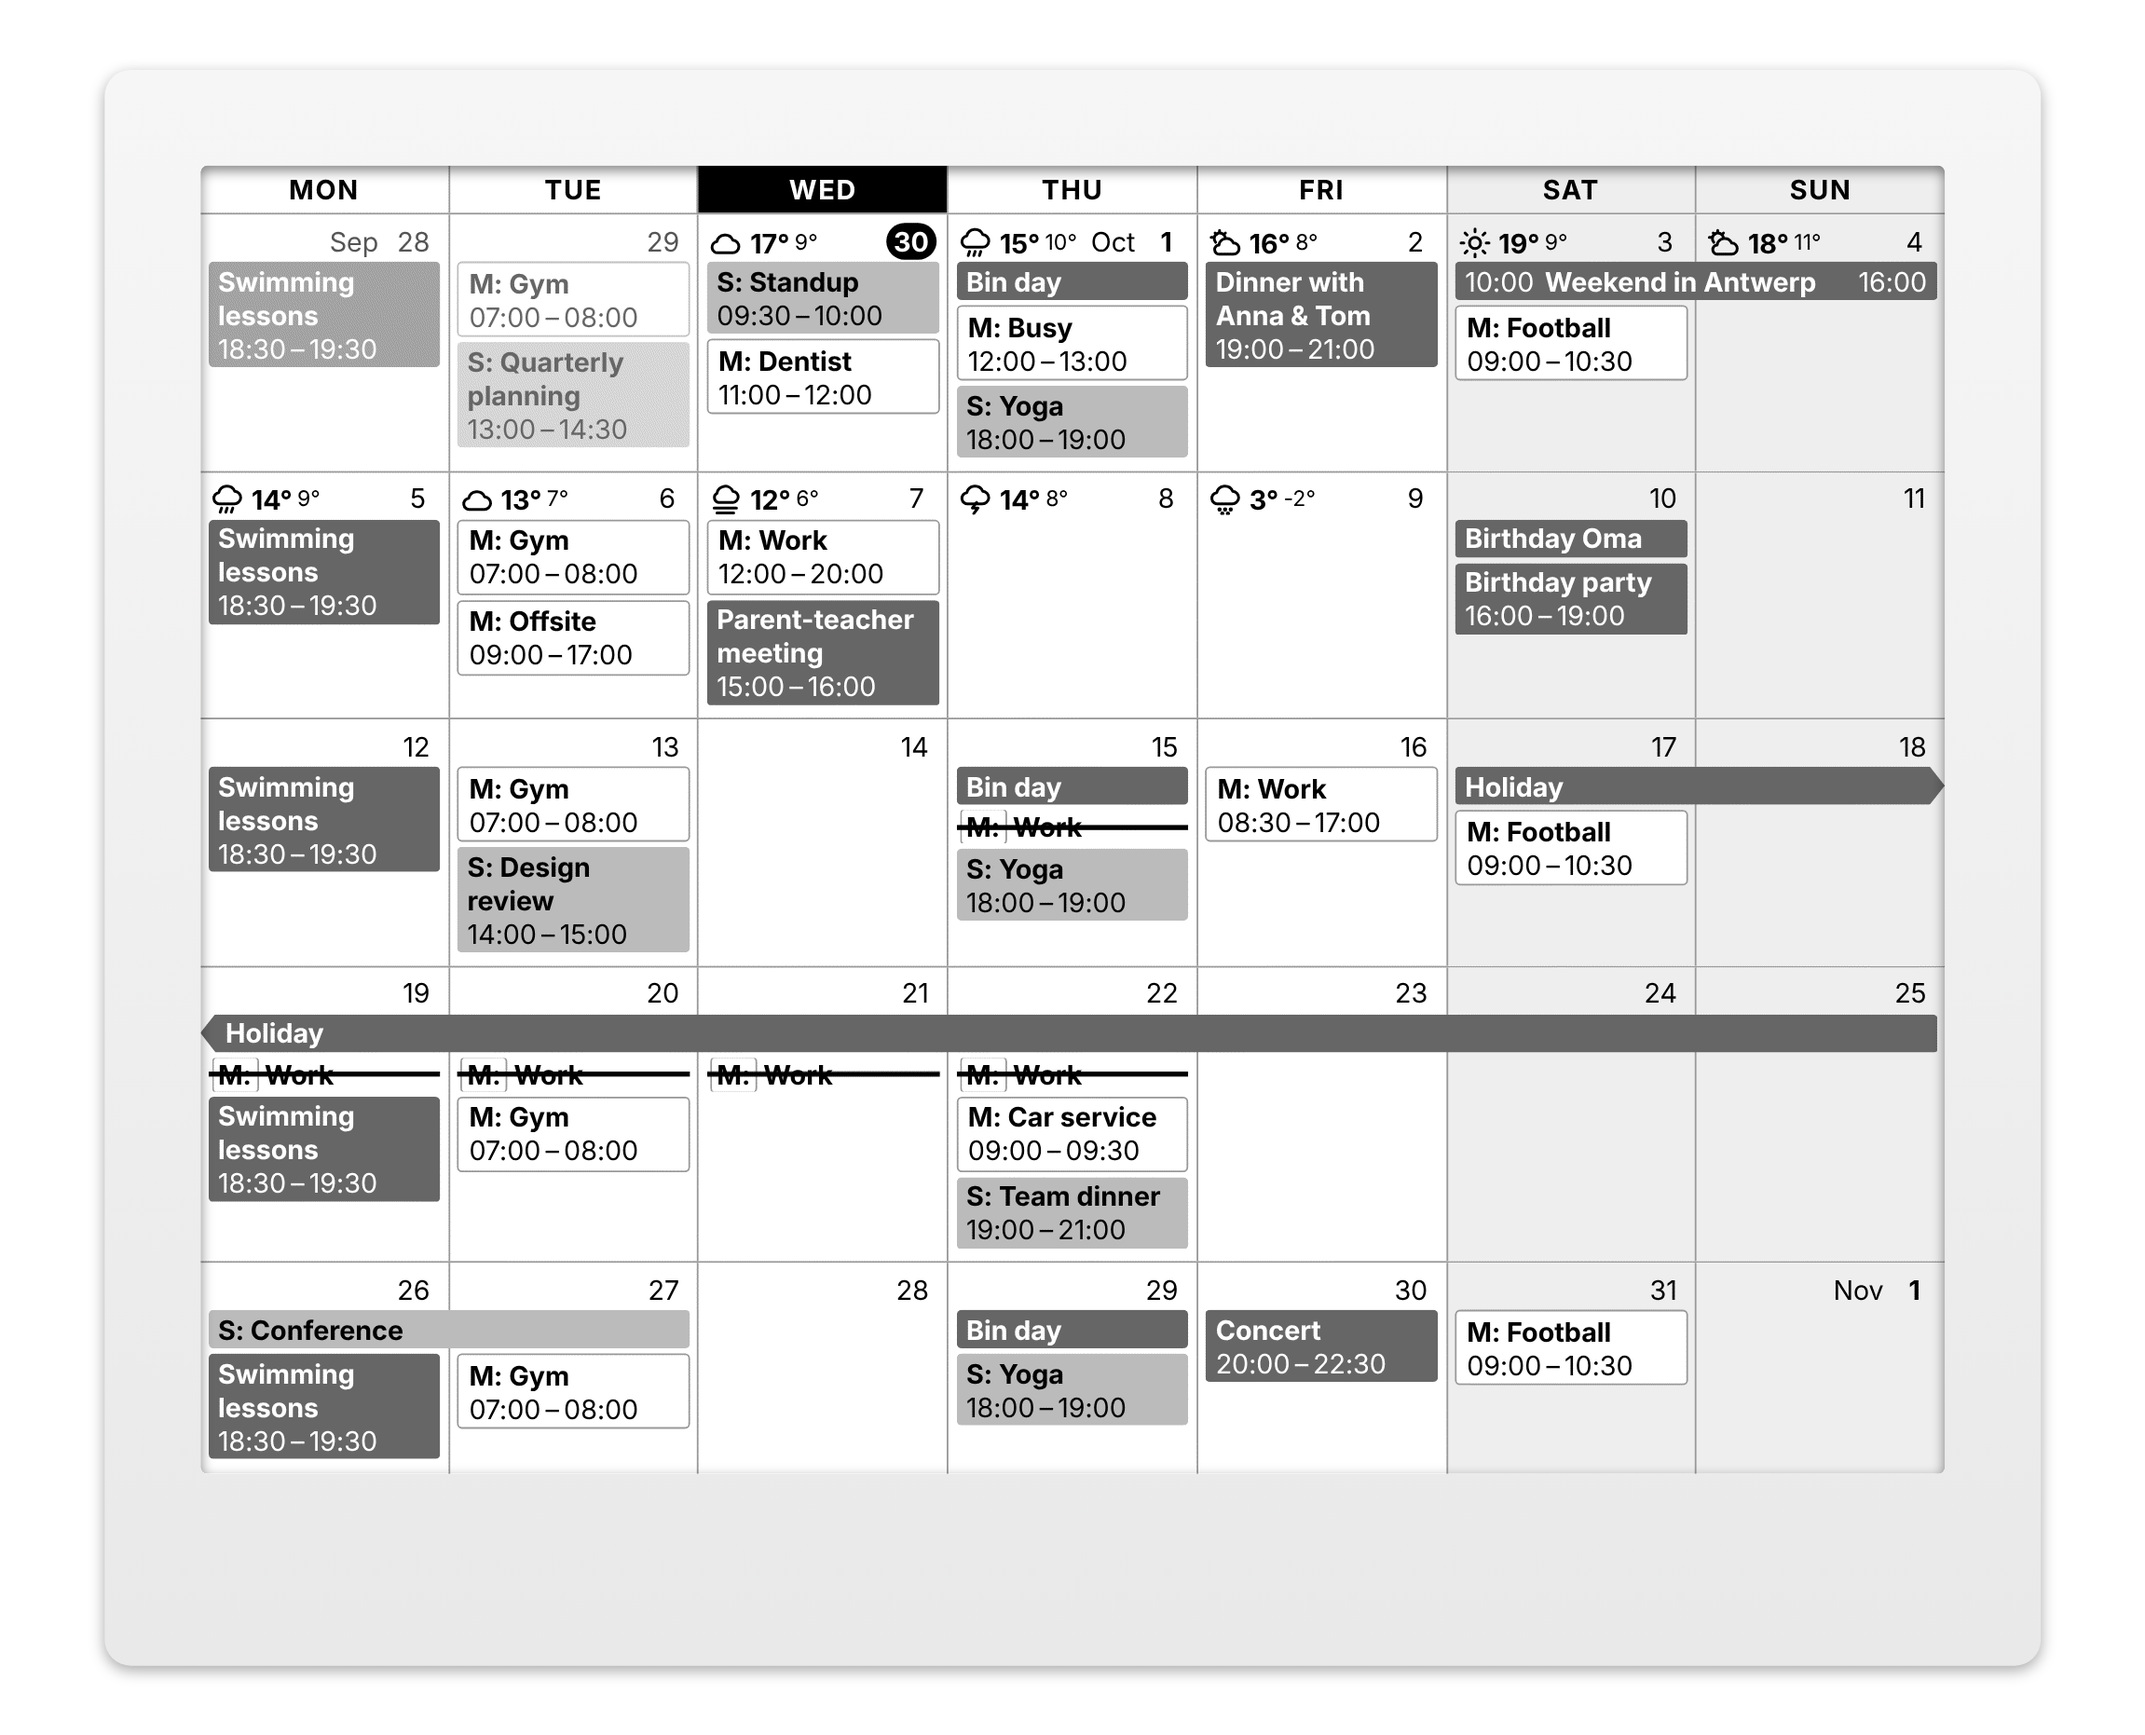
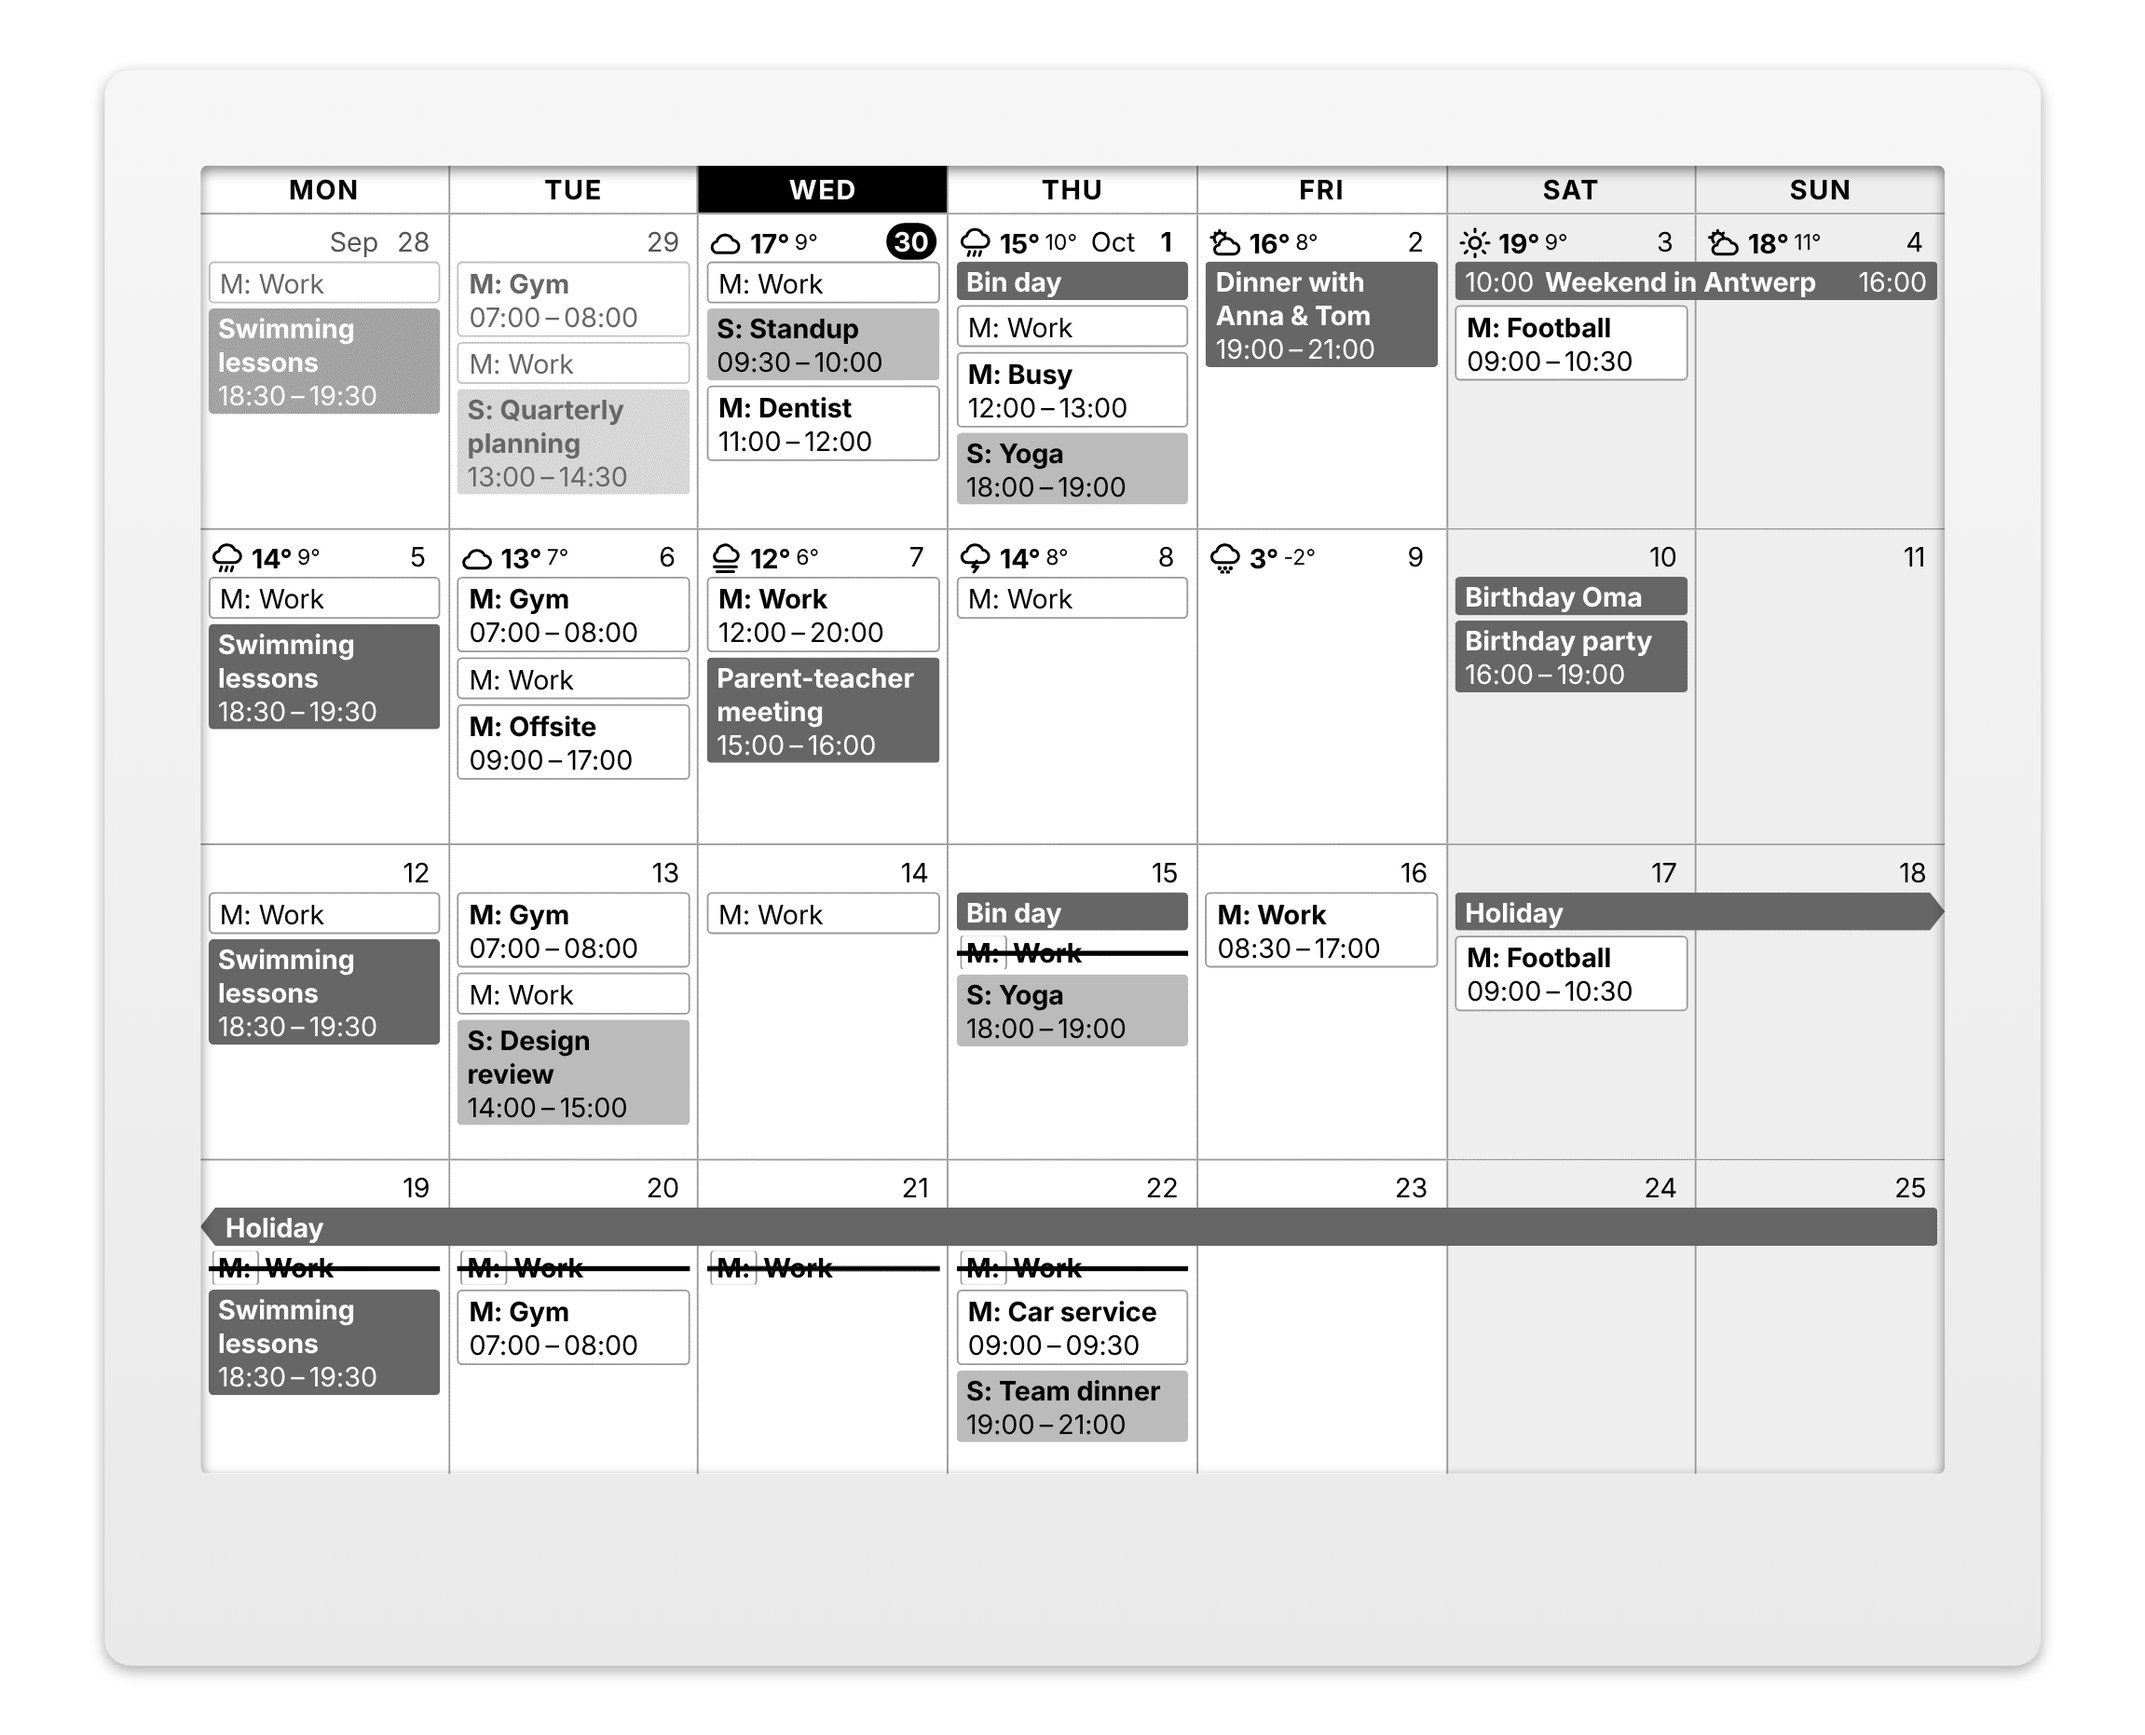
README: show the Usual week image with Usual events on Without times
Claude-Session: https://claude.ai/code/session_012o4AiAHExqNSp6iPRm5q7d

Changed region(s): [[0.0925, 0.1246, 0.9253, 0.841], [0.6785, 0.2803, 0.8019, 0.4049]]

diff --git a/README.md b/README.md
@@ -406,8 +406,8 @@ are no commas in it (they separate the calendars). A crossed-out day takes the t
 usual events, else the prefix alone.
 
 <sub>The sample calendars with Mark's work calendar (same `M:` prefix and color) on
-`Mon-Thu 08:30-17:00`: a later Wednesday, a Thursday swapped for Friday, and the holiday
-week off.</sub><br>
+`Mon-Thu 08:30-17:00` and **Usual events** on `Without times`: a later Wednesday, a
+Thursday swapped for Friday, and the holiday week off.</sub><br>
 <img src="docs/usual-week.png" width="100%">
 
 ## Differences from upstream
